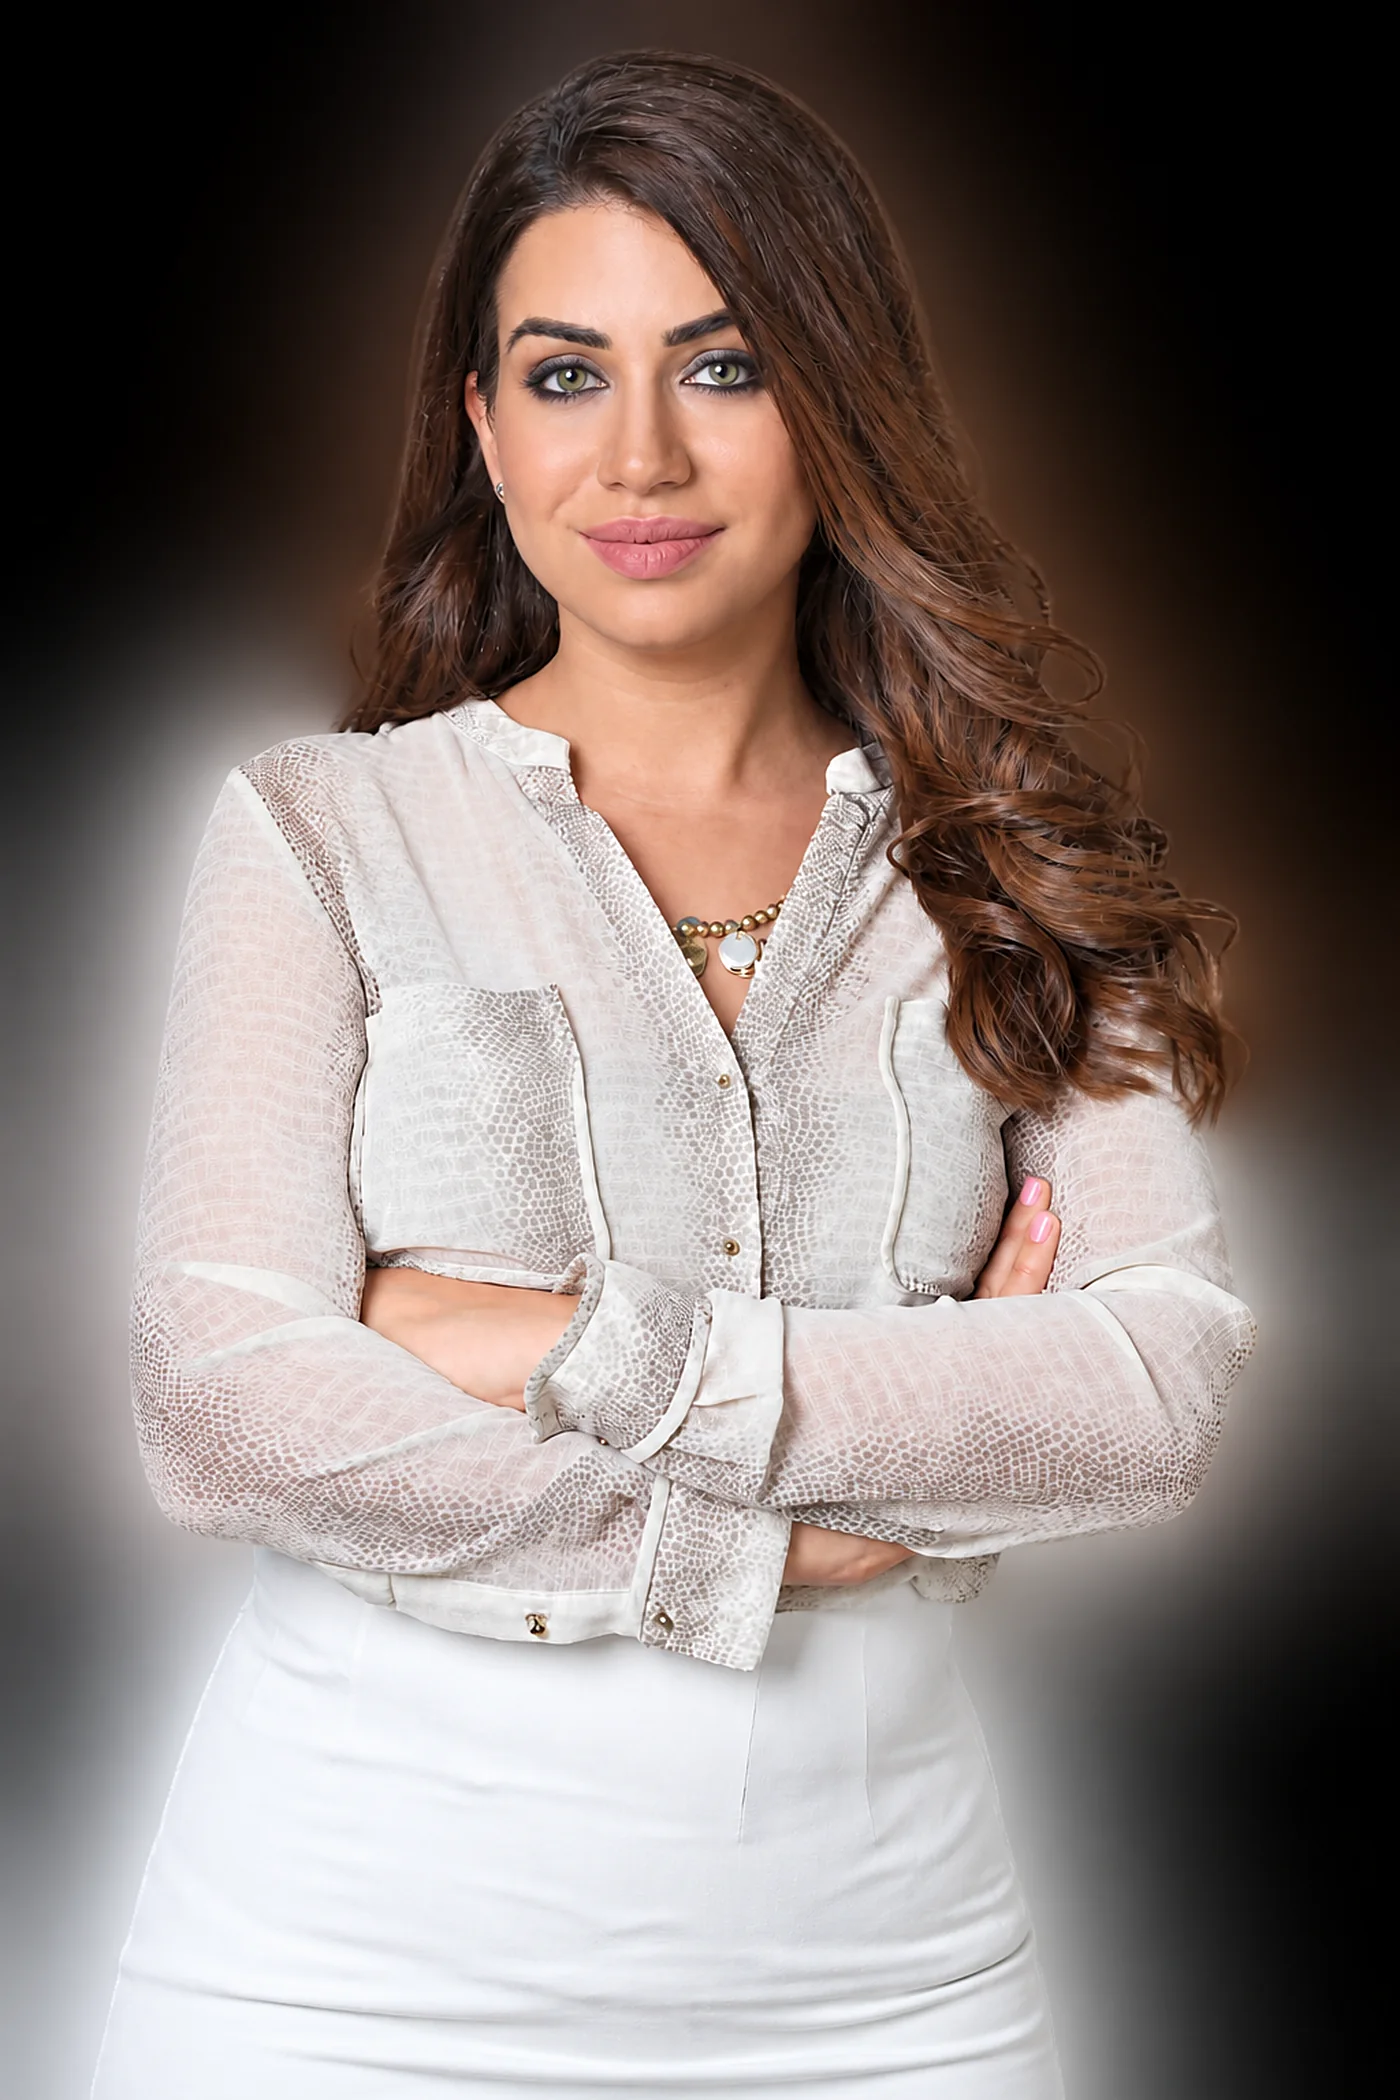
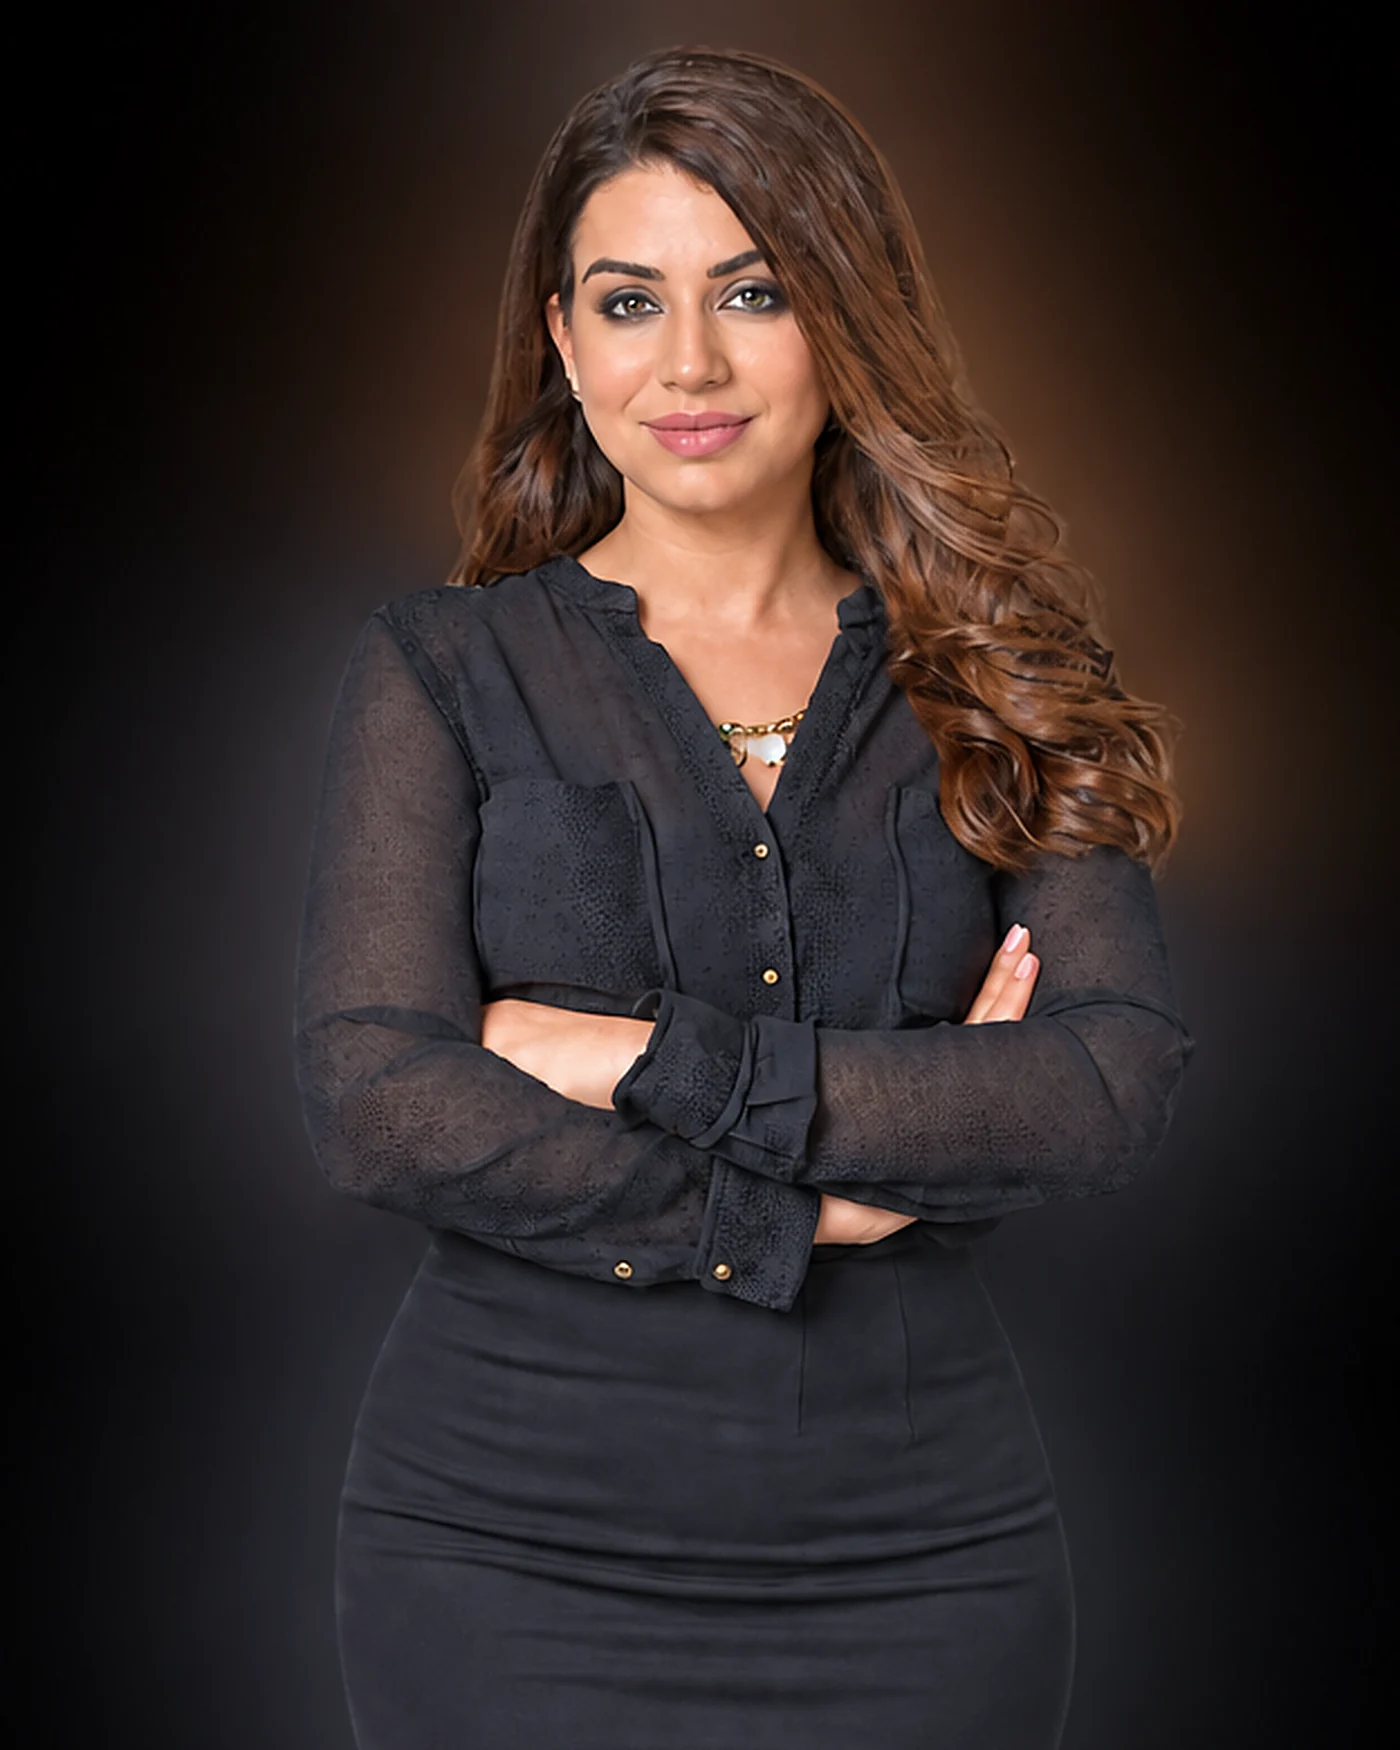
Use the one portrait that was not already spoken for, cropped to half
The previous frame was the Meet Joumana cutout, so the same shot was
running on the home page. Comparing every file in source-files and
old-site-2019 against what the site already serves left exactly one
portrait of her unused: the dark ground studio shot in the charcoal
dress.

Full length it did not work. In a column this size the figure goes small
and the crop eats either her head or her shoes, and widening the frame
with its own backdrop to fit her in only made her smaller. It is cut to
the top half instead, read off the file: head at 40, chin at 155, the
crossed arms at 400 to 520, waist at 600, so the cut lands just under
her hands and she fills the column.

The phone frame goes from 700/620 to 4/5 to match, since a half body
crop in a landscape box is the same problem again.

diff --git a/src/app/contact/page.tsx b/src/app/contact/page.tsx
@@ -106,14 +106,14 @@ export default function ContactPage() {
             </Reveal>
           </div>
 
-          <div className="relative -mx-6 aspect-[700/620] md:-mx-10 lg:mx-0 lg:aspect-auto lg:h-full">
+          <div className="relative -mx-6 aspect-[4/5] md:-mx-10 lg:mx-0 lg:aspect-auto lg:h-full">
             <Image
               src="/images/contact-portrait.webp"
               alt="Joumana Saad, journalist, presenter and communications specialist in Dubai"
               fill
               priority
               sizes="(max-width: 1024px) 100vw, 41vw"
-              className="object-cover object-[center_16%]"
+              className="object-cover object-center"
             />
           </div>
         </div>
